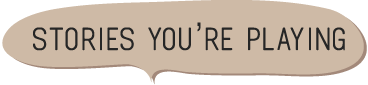
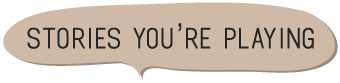
Fixes #78. Button for the solo player mode.

diff --git a/static/css/all.css b/static/css/all.css
@@ -420,27 +420,29 @@ html, body {
 
 .cardstories .cardstories_lobby .cardstories_start_story {
     position: absolute;
-    background: transparent url('images/start_story.png') no-repeat left top;
-    background-position: 0px 0px;
-    top: 235px;
-    right: 80px;
-    height: 115px;
-    width: 181px;
+    background: transparent url('images/start_story_off.png') no-repeat left top;
+    top: 266px;
+    right: 180px;
+    height: 184px;
+    width: 131px;
 }
 
 .cardstories .cardstories_lobby .cardstories_start_story:hover {
-    background-image: url('images/start_story.png');
-    background-position: -181px 0px;
+    background-image: url('images/start_story_on.png');
 }
 
 .cardstories .cardstories_lobby .cardstories_solo {
     position: absolute;
-    background: transparent url('images/solo_story.png') no-repeat left top;
+    background: transparent url('images/solo_story_off.png') no-repeat left top;
     background-position: 0px 0px;
-    top: 35px;
-    right: 100px;
-    height: 135px;
-    width: 195px;
+    top: 266px;
+    right: 40px;
+    height: 85px;
+    width: 131px;
+}
+
+.cardstories .cardstories_lobby .cardstories_solo:hover {
+    background-image: url('images/solo_story_on.png');
 }
 
 .cardstories .cardstories_lobby .cardstories_pager {
@@ -544,9 +546,9 @@ html, body {
     position: absolute;
     background: transparent url('images/stories_you_are_playing.png') no-repeat left top;
     top: 260px;
-    left: 350px;
-    height: 85px;
-    width: 368px;
+    left: 336px;
+    height: 83px;
+    width: 340px;
 }
 
 /* lobby for finished games */
